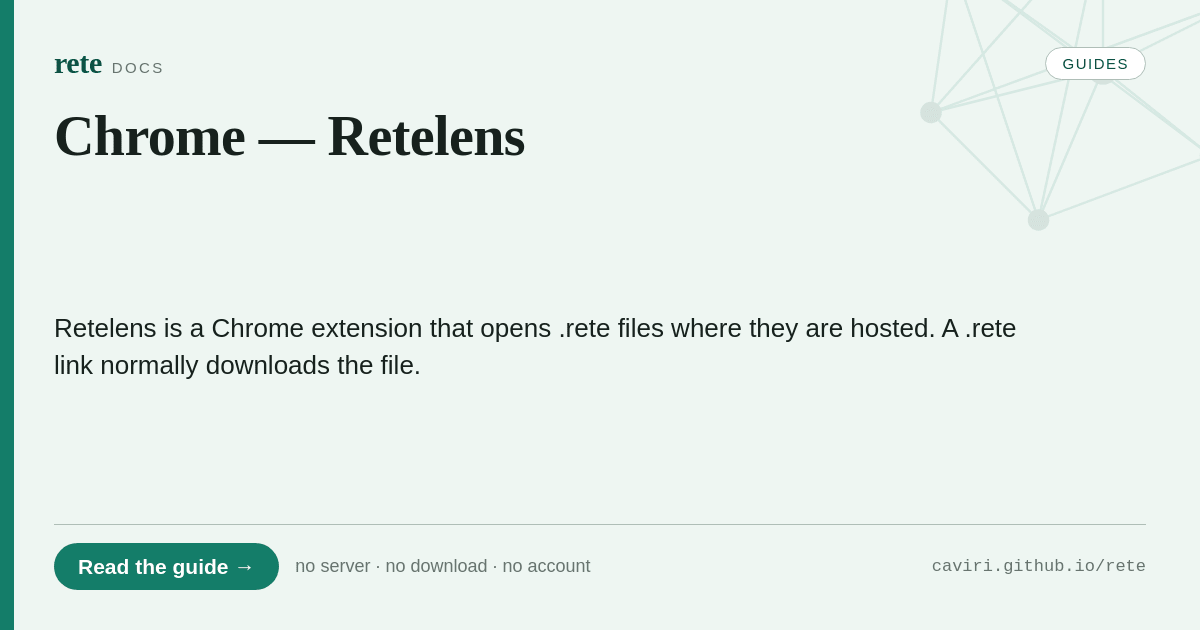
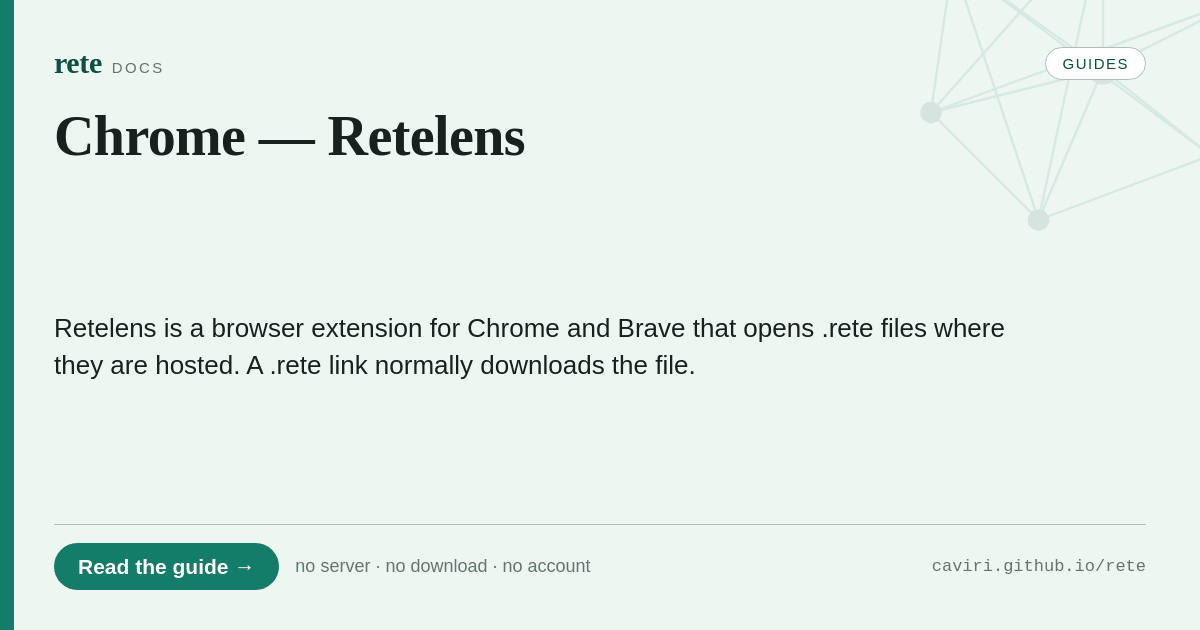
Retelens docs: works in Brave too (brave://extensions for Load unpacked)
Checked in Brave 1.100 (Chromium 158): the extension loads, and the viewer, GitHub,
Hugging Face and Zenodo integrations work as in Chrome.

Changed region(s): [[0.0308, 0.5429, 0.5858, 0.6032], [0.3392, 0.5127, 0.8633, 0.5429], [0.185, 0.5127, 0.2775, 0.5429]]

diff --git a/docs/chrome.html b/docs/chrome.html
@@ -5,12 +5,12 @@
   <meta name="viewport" content="width=device-width, initial-scale=1, viewport-fit=cover" />
   <meta name="color-scheme" content="light dark" />
   <title>Chrome — Retelens · rete docs</title>
-  <meta name="description" content="Retelens is a Chrome extension that opens .rete files where they are hosted. A .rete link normally downloads the file." />
+  <meta name="description" content="Retelens is a browser extension for Chrome and Brave that opens .rete files where they are hosted. A .rete link normally downloads the file." />
   <link rel="canonical" href="https://caviri.github.io/rete/docs/chrome.html" />
   <meta property="og:type" content="article" />
   <meta property="og:site_name" content="rete" />
   <meta property="og:title" content="Chrome — Retelens · rete docs" />
-  <meta property="og:description" content="Retelens is a Chrome extension that opens .rete files where they are hosted. A .rete link normally downloads the file." />
+  <meta property="og:description" content="Retelens is a browser extension for Chrome and Brave that opens .rete files where they are hosted. A .rete link normally downloads the file." />
   <meta property="og:url" content="https://caviri.github.io/rete/docs/chrome.html" />
   <meta property="og:image" content="https://caviri.github.io/rete/og/doc/chrome.png" />
   <meta property="og:image:width" content="1200" />
@@ -18,7 +18,7 @@
   <meta property="og:image:alt" content="Chrome — Retelens · rete docs" />
   <meta name="twitter:card" content="summary_large_image" />
   <meta name="twitter:title" content="Chrome — Retelens · rete docs" />
-  <meta name="twitter:description" content="Retelens is a Chrome extension that opens .rete files where they are hosted. A .rete link normally downloads the file." />
+  <meta name="twitter:description" content="Retelens is a browser extension for Chrome and Brave that opens .rete files where they are hosted. A .rete link normally downloads the file." />
   <meta name="twitter:image" content="https://caviri.github.io/rete/og/doc/chrome.png" />
   <meta name="rete:section" content="Guides" />
   <script>
@@ -617,7 +617,7 @@ footer { width:min(1320px,100%); margin:0 auto; padding:1rem 2.2rem 3rem; color:
       <article class="content">
 <p class="parent-link"><a href="integrations.html">Back to Tools and integrations</a></p>
 <h1 id="chrome--retelens">Chrome — Retelens</h1>
-<p>Retelens is a Chrome extension that opens <code>.rete</code> files where they are hosted.
+<p>Retelens is a browser extension for Chrome and Brave that opens <code>.rete</code> files where they are hosted.
 A <code>.rete</code> link normally downloads the file. With Retelens the page instead
 shows the file's Dataset Card, tables from its example queries, the results as
 a table, cards or a graph, and a SPARQL console. Like the
@@ -632,7 +632,7 @@ Experimental, like the format: a file written by a newer rete may need a newer R
 <ol>
 <li>Download <a href="https://github.com/caviri/rete/releases/latest/download/retelens.zip">retelens.zip</a>
 from the latest release and unzip it.</li>
-<li>Open <code>chrome://extensions</code> and turn on <strong>Developer mode</strong>.</li>
+<li>Open <code>chrome://extensions</code> (in Brave, <code>brave://extensions</code>) and turn on <strong>Developer mode</strong>.</li>
 <li>Choose <strong>Load unpacked</strong> and pick the unzipped folder.</li>
 </ol>
 <p>Each release attaches the same extension as <code>retelens-&lt;version&gt;.zip</code>. It is

diff --git a/docs/integrations.html b/docs/integrations.html
@@ -624,7 +624,7 @@ or giving an agent access to graph data.</p>
 <table><thead><tr><th>Tool</th><th>Use it for</th></tr></thead><tbody>
 <tr><td><a href="playground-guide.html">Playground</a></td><td>Explore a dataset, run queries and share results</td></tr>
 <tr><td><a href="plaza-guide.html">Plaza</a></td><td>Browse published datasets and their cards</td></tr>
-<tr><td><a href="chrome.html">Retelens (Chrome)</a></td><td>Open <code>.rete</code> files where they are hosted: Hugging Face, GitHub, Zenodo or any URL</td></tr>
+<tr><td><a href="chrome.html">Retelens (Chrome, Brave)</a></td><td>Open <code>.rete</code> files where they are hosted: Hugging Face, GitHub, Zenodo or any URL</td></tr>
 <tr><td><a href="file-explorer.html">File Explorer</a></td><td>Inspect local or remote graphs through a file-oriented interface</td></tr>
 <tr><td><a href="yasgui-guide.html">SPARQL IDE</a></td><td>Write and compare queries in tabs</td></tr>
 <tr><td><a href="comunica.html">Comunica</a></td><td>Use a <code>.rete</code> file as an RDF/JS source</td></tr>

diff --git a/clients/chrome/README.md b/clients/chrome/README.md
@@ -1,12 +1,12 @@
-# Retelens, the Chrome extension
+# Retelens, the browser extension
 
-Retelens opens `.rete` graph files where they are hosted, instead of downloading them. It shows the file's Dataset Card, tables from its example queries, results as a table, cards or a graph, and a SPARQL console. It works on Hugging Face (datasets and storage buckets), GitHub and Zenodo inside the page, in each site's own look. Any other `.rete` URL opens in a standalone viewer with a Download button. User guide: [docs/chrome.md](../../docs/chrome.md).
+Retelens is a Chromium extension (tested in Chrome and Brave) that opens `.rete` graph files where they are hosted, instead of downloading them. It shows the file's Dataset Card, tables from its example queries, results as a table, cards or a graph, and a SPARQL console. It works on Hugging Face (datasets and storage buckets), GitHub and Zenodo inside the page, in each site's own look. Any other `.rete` URL opens in a standalone viewer with a Download button. User guide: [docs/chrome.md](../../docs/chrome.md).
 
 The engine is `rete-graph` (`clients/js`) built from the same commit, so the extension always carries the engine of its release, as the Claude Desktop extension does.
 
 ## Install
 
-Every release attaches `retelens-<version>.zip`, and `retelens.zip` under a fixed name: https://github.com/caviri/rete/releases/latest/download/retelens.zip. Unzip it, open `chrome://extensions`, turn on Developer mode, choose **Load unpacked** and pick the unzipped folder.
+Every release attaches `retelens-<version>.zip`, and `retelens.zip` under a fixed name: https://github.com/caviri/rete/releases/latest/download/retelens.zip. Unzip it, open `chrome://extensions` (`brave://extensions` in Brave), turn on Developer mode, choose **Load unpacked** and pick the unzipped folder.
 
 ## Build
 
@@ -101,7 +101,7 @@ Regenerate CSS: `docker run --rm --memory 4g -v "$PWD/clients/chrome:/ext" node:
 ## Known limits
 
 - Reads the formats its engine reads (0x05 to 0x08). Older files show an error naming the format.
-- Graph view is GraphKit (lib/graphkit): at most 1,500 nodes / 3,000 edges per result. graphkit.js (1.4 MB) is injected into the page when a Graph view is first opened (as a manifest content script it made Chrome refuse to load the extension); the bundle must be pure ASCII (a raw U+FFFF in it triggers "isn't UTF-8", so build.mjs uses `charset: "ascii"`).
+- Graph view is GraphKit (lib/graphkit): at most 1,500 nodes / 3,000 edges per result. graphkit.js (1.4 MB) is injected into the page when a Graph view is first opened (as a manifest content script it made Chrome refuse to load the extension); Chrome refuses an injected script that holds a Unicode noncharacter (a raw U+FFFF gives "It isn't UTF-8 encoded"). esbuild's `charset: "ascii"` escapes strings but not regex literals, so build.mjs checks every built script and fails on one.
 - Reads are serial synchronous XHR; nothing cancels a running query.
 - Search, filters and sort are exact up to 10,000 rows (all rows are fetched in batches); above that they apply to the first 10,000 loaded rows and the bar says so, with "Add as FILTER to the query" writing the rewritten SPARQL into the console (never run for you). State is in the URL (`rq`, `rf`, `rs`).
 - A CONSTRUCT/DESCRIBE without a LIMIT over a file larger than 5 MB is not started by itself: a hint shows first, with a Run anyway button.

diff --git a/README.md b/README.md
@@ -134,7 +134,7 @@ All of these run the same engine.
 - **Browser, no install**: the [playground](https://caviri.github.io/rete/docs/playground.html) and a [SPARQL IDE](https://caviri.github.io/rete/docs/yasgui.html) query any `.rete` URL.
 - **Claude Desktop**: download [rete.mcpb](https://github.com/caviri/rete/releases/latest/download/rete.mcpb) and double-click it; the engine runs on your machine ([docs](https://caviri.github.io/rete/docs/agents.html)).
 - **Blender**: an add-on from the [releases page](https://github.com/caviri/rete/releases) that turns query results into 3D scenes ([docs](https://caviri.github.io/rete/docs/blender.html)).
-- **Chrome**: [Retelens](https://github.com/caviri/rete/releases/latest/download/retelens.zip) opens `.rete` files where they are hosted (Hugging Face, GitHub, Zenodo or any link) with their card, example tables, a graph view and a SPARQL console ([docs](https://caviri.github.io/rete/docs/chrome.html)).
+- **Chrome and Brave**: [Retelens](https://github.com/caviri/rete/releases/latest/download/retelens.zip) opens `.rete` files where they are hosted (Hugging Face, GitHub, Zenodo or any link) with their card, example tables, a graph view and a SPARQL console ([docs](https://caviri.github.io/rete/docs/chrome.html)).
 - **Hosted gateway**: [katospiegel-rete.hf.space](https://katospiegel-rete.hf.space/) serves MCP, a REST API and a SPARQL endpoint for each published dataset.
 
 ## Claude Code plugin

diff --git a/docs/chrome.md b/docs/chrome.md
@@ -1,6 +1,6 @@
 # Chrome — Retelens
 
-Retelens is a Chrome extension that opens `.rete` files where they are hosted.
+Retelens is a browser extension for Chrome and Brave that opens `.rete` files where they are hosted.
 A `.rete` link normally downloads the file. With Retelens the page instead
 shows the file's Dataset Card, tables from its example queries, the results as
 a table, cards or a graph, and a SPARQL console. Like the
@@ -15,7 +15,7 @@ first query after reading about 12 MB.
 
 1. Download [retelens.zip](https://github.com/caviri/rete/releases/latest/download/retelens.zip)
    from the latest release and unzip it.
-2. Open `chrome://extensions` and turn on **Developer mode**.
+2. Open `chrome://extensions` (in Brave, `brave://extensions`) and turn on **Developer mode**.
 3. Choose **Load unpacked** and pick the unzipped folder.
 
 Each release attaches the same extension as `retelens-<version>.zip`. It is

diff --git a/docs/integrations.md b/docs/integrations.md
@@ -10,7 +10,7 @@ or giving an agent access to graph data.
 |---|---|
 | [Playground](playground-guide.md) | Explore a dataset, run queries and share results |
 | [Plaza](plaza-guide.md) | Browse published datasets and their cards |
-| [Retelens (Chrome)](chrome.md) | Open `.rete` files where they are hosted: Hugging Face, GitHub, Zenodo or any URL |
+| [Retelens (Chrome, Brave)](chrome.md) | Open `.rete` files where they are hosted: Hugging Face, GitHub, Zenodo or any URL |
 | [File Explorer](file-explorer.md) | Inspect local or remote graphs through a file-oriented interface |
 | [SPARQL IDE](yasgui-guide.md) | Write and compare queries in tabs |
 | [Comunica](comunica.md) | Use a `.rete` file as an RDF/JS source |

diff --git a/CHANGELOG.md b/CHANGELOG.md
@@ -7,7 +7,7 @@ versioning for its Rust, CLI, and WASM APIs from 1.0.0 onward.
 
 ### Added
 
-- **Retelens, a Chrome extension** (`clients/chrome`). It opens `.rete` files
+- **Retelens, a browser extension for Chrome and Brave** (`clients/chrome`). It opens `.rete` files
   where they are hosted instead of downloading them: on Hugging Face datasets
   and buckets, GitHub and Zenodo inside the page, in each site's look, and any
   other `.rete` link in a viewer with a Download button. It shows the file's
